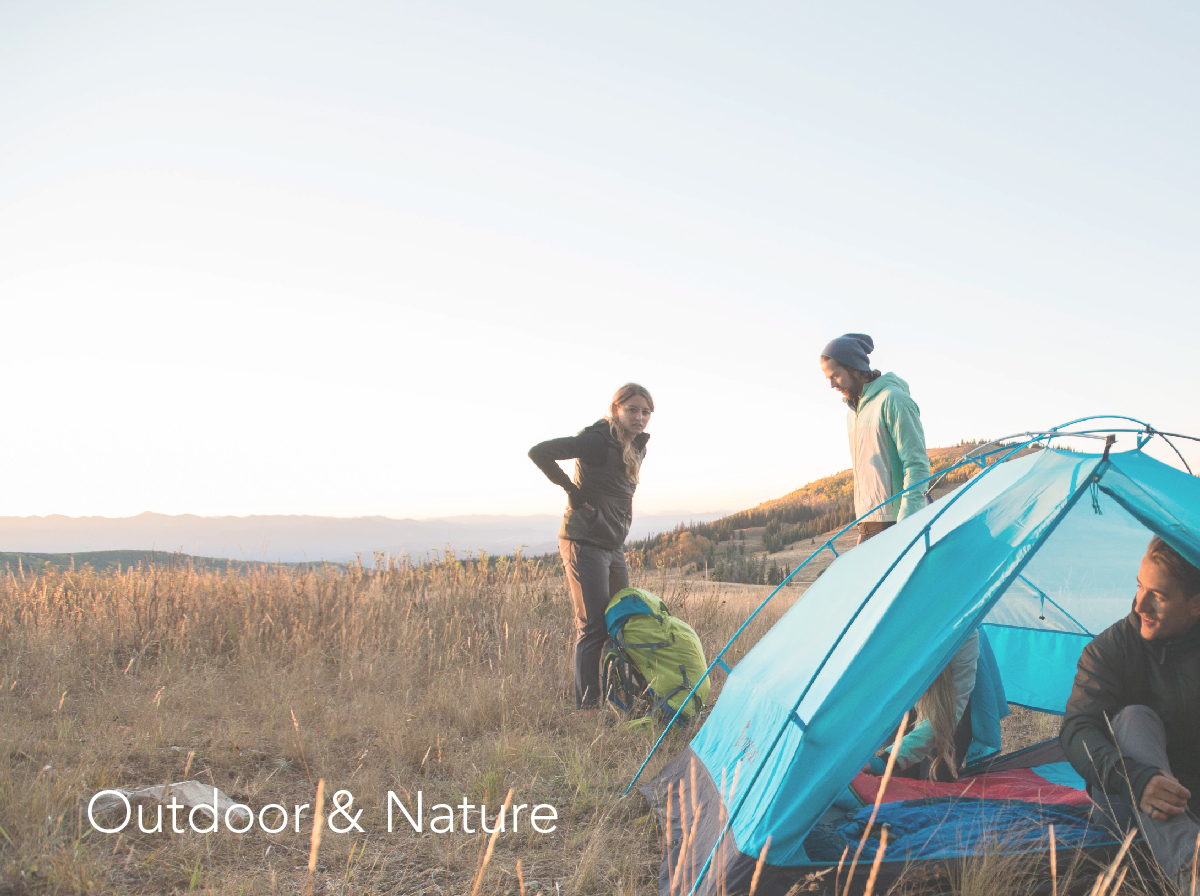
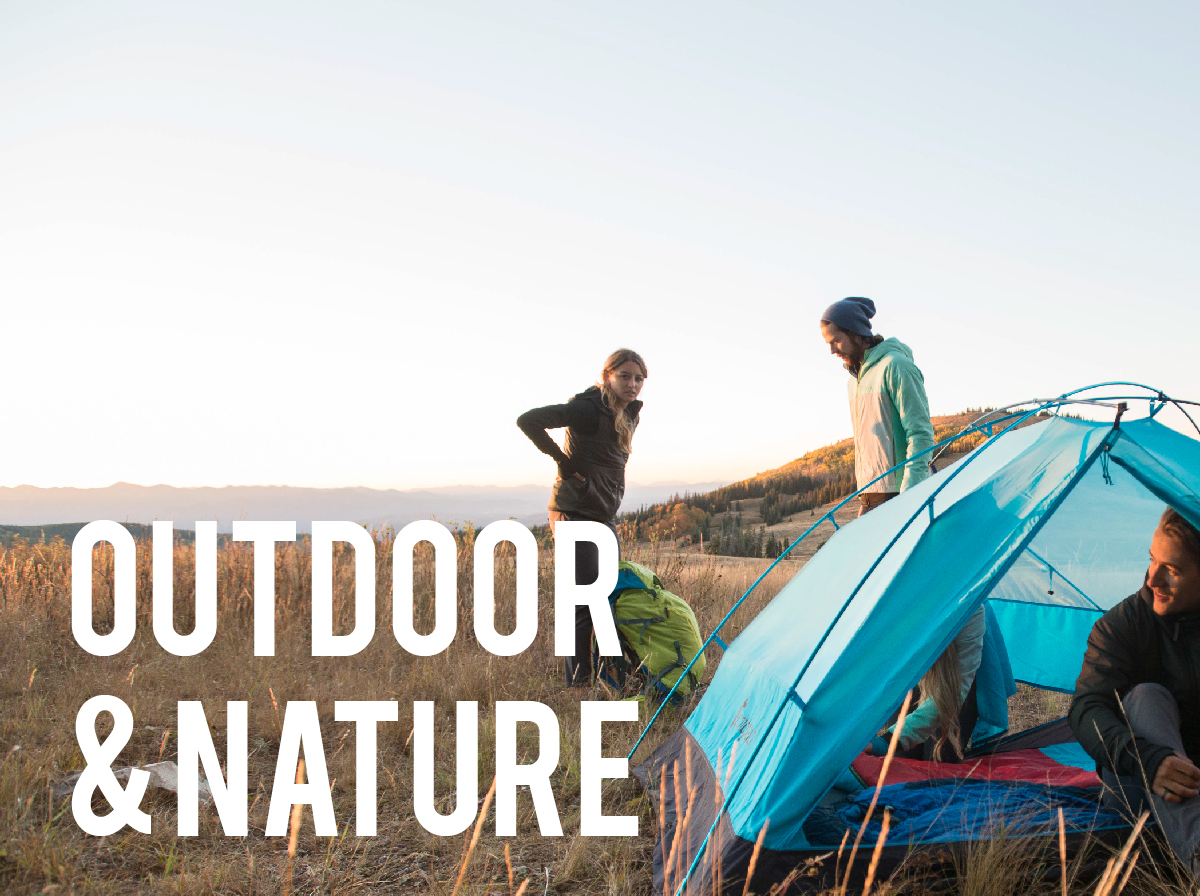
changed images and madi

diff --git a/css/3-col-portfolio.css b/css/3-col-portfolio.css
@@ -4,26 +4,10 @@
  * For details, see http://www.apache.org/licenses/LICENSE-2.0.
  */
 
-@font-face {
-    font-family: 'Avenir-light';
-    src: url("fonts/AvenirLTStd-Light.otf");
-}
-
-@font-face {
-    font-family: 'Avenir-regular';
-    src: url("fonts/AvenirLTStd-Heavy.otf");
-}
-
-@font-face {
-    font-family: 'Avenir-heavy';
-    src: url("AvenirLTStd-Heavy.otf");
-}
-
 body {
-    font-family: 'Avenir-light';
     margin: 0px;
     padding: 0px;
-    font-size: 20px;
+    font-size: 40px;
 }
 
 header {
@@ -36,13 +20,12 @@ header {
     -moz-background-size: cover;
     background-size: cover;
     -o-background-size: cover;
-    font-family: 'Avenir-light';
+    font: Lato;
 }
 
 header .intro-text {
-    padding-top: 150px;
-    padding-bottom: 100px;
-    font-family: 'Avenir-light';
+    padding-top: 100px;
+    padding-bottom: 50px;
 }
 
 .portfolio-item {
@@ -149,4 +132,19 @@ submit {
 .darken:hover img {
     opacity: 0.7;
             
+}
+
+.selected_darken img{
+    background: black;
+    padding: 0;
+    display: block;
+    width: 100%;
+    height: auto;
+    max-width: 100%;
+    -webkit-transition: all 0.2s linear;
+       -moz-transition: all 0.2s linear;
+        -ms-transition: all 0.2s linear;
+         -o-transition: all 0.2s linear;
+            transition: all 0.2s linear;
+    opacity: 0.3;
 }

diff --git a/index.html b/index.html
@@ -33,7 +33,9 @@
         <header>
             <div class="container">
                 <div class="intro-text">
-                    <p class="header"> What events and activities are you interested in?
+                    <p class="header"> What are you <p>
+                    <p class="header"> PASSIONATE <p>
+                    <p class="header"> about? <p>
                     </p>
                     
                 </div>
@@ -48,7 +50,7 @@
 		<div class="main_block" align="center" ng-controller="ItemCtrl">		
 			
             <div ng-repeat="category in categories" class="category">
-                <div class="darken" ng-click="selected_cats($index)">
+                <div class="darken" ng-click="selected_cats($index)" ng-class="{'selected_darken':category.include}">
                     <img ng-src="{{category.path}}">
                 </div>
 			</div>
@@ -75,6 +77,7 @@
 
     </body>
 	
+    <link href='https://fonts.googleapis.com/css?family=Lato:400,100,300,700,900' rel='stylesheet' type='text/css'>
 	<!-- jQuery -->
     <script src="js/jquery.js"></script>
 
